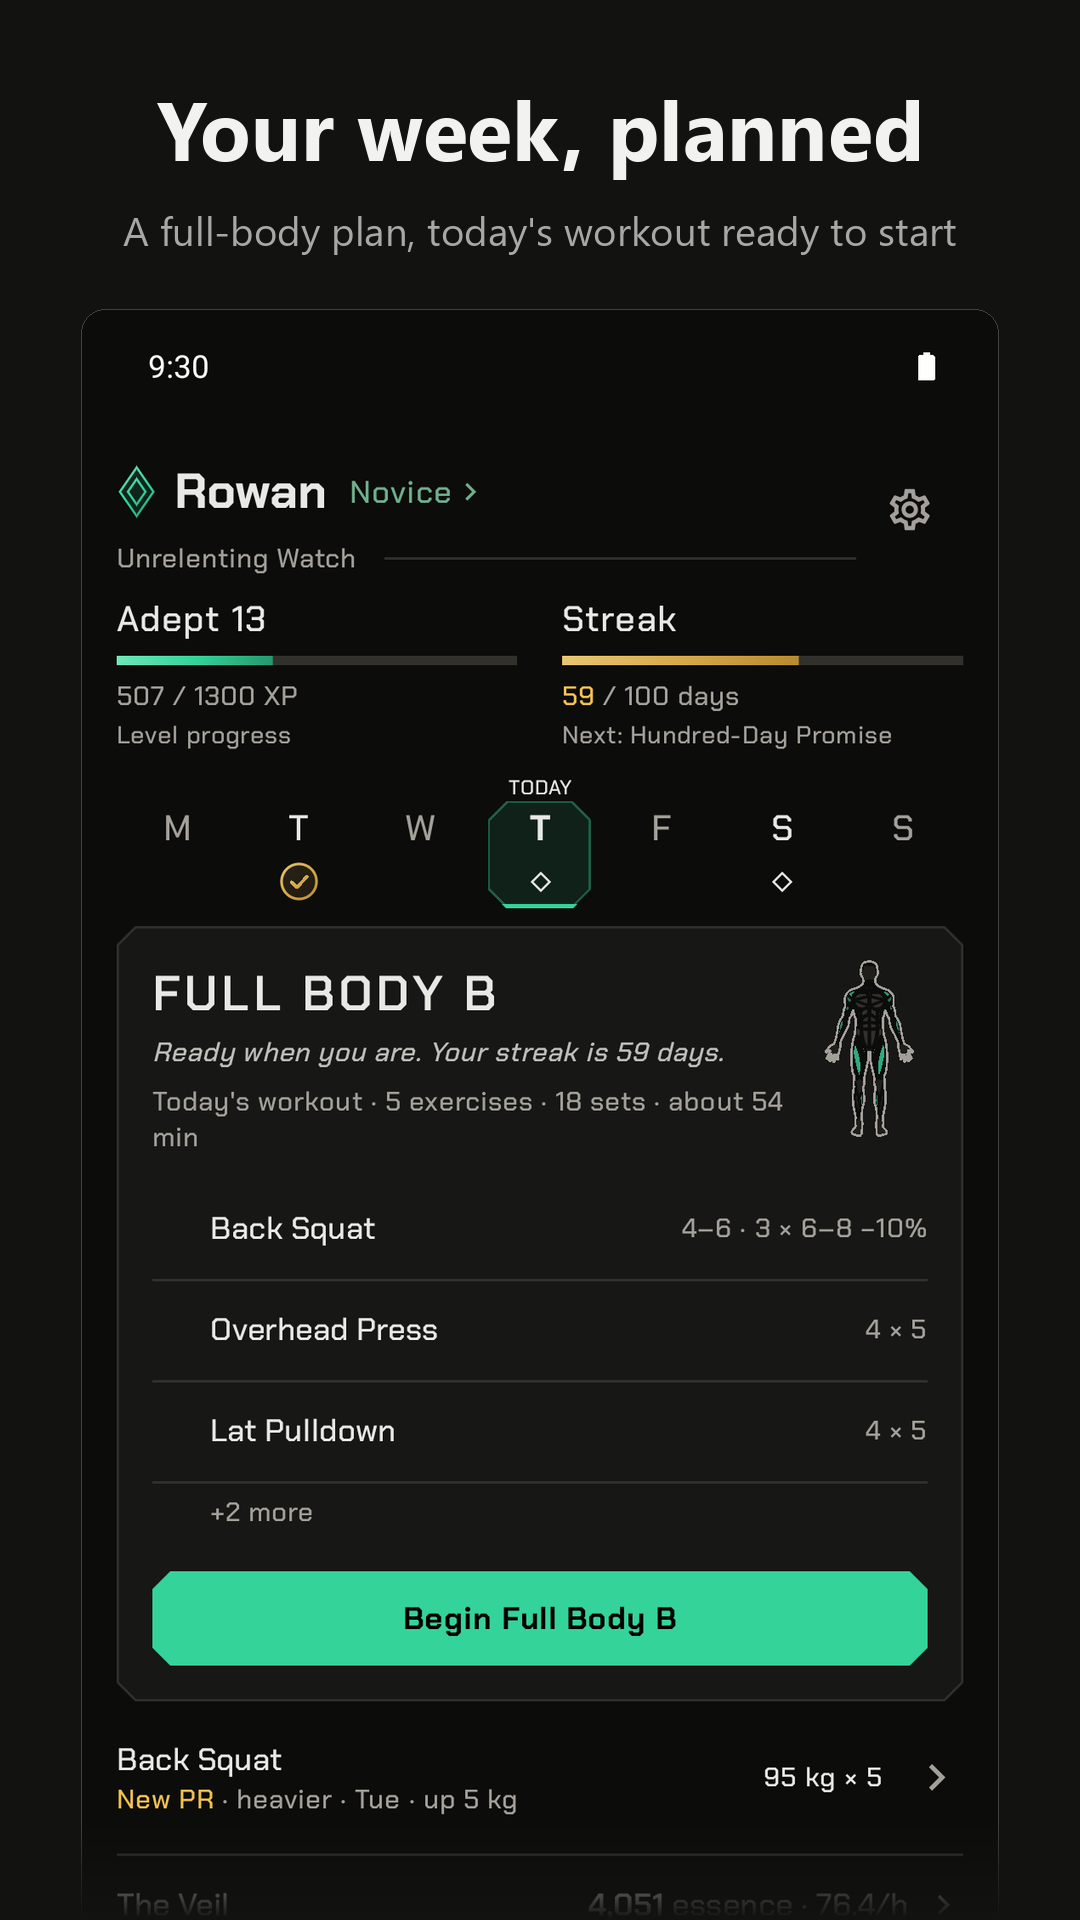
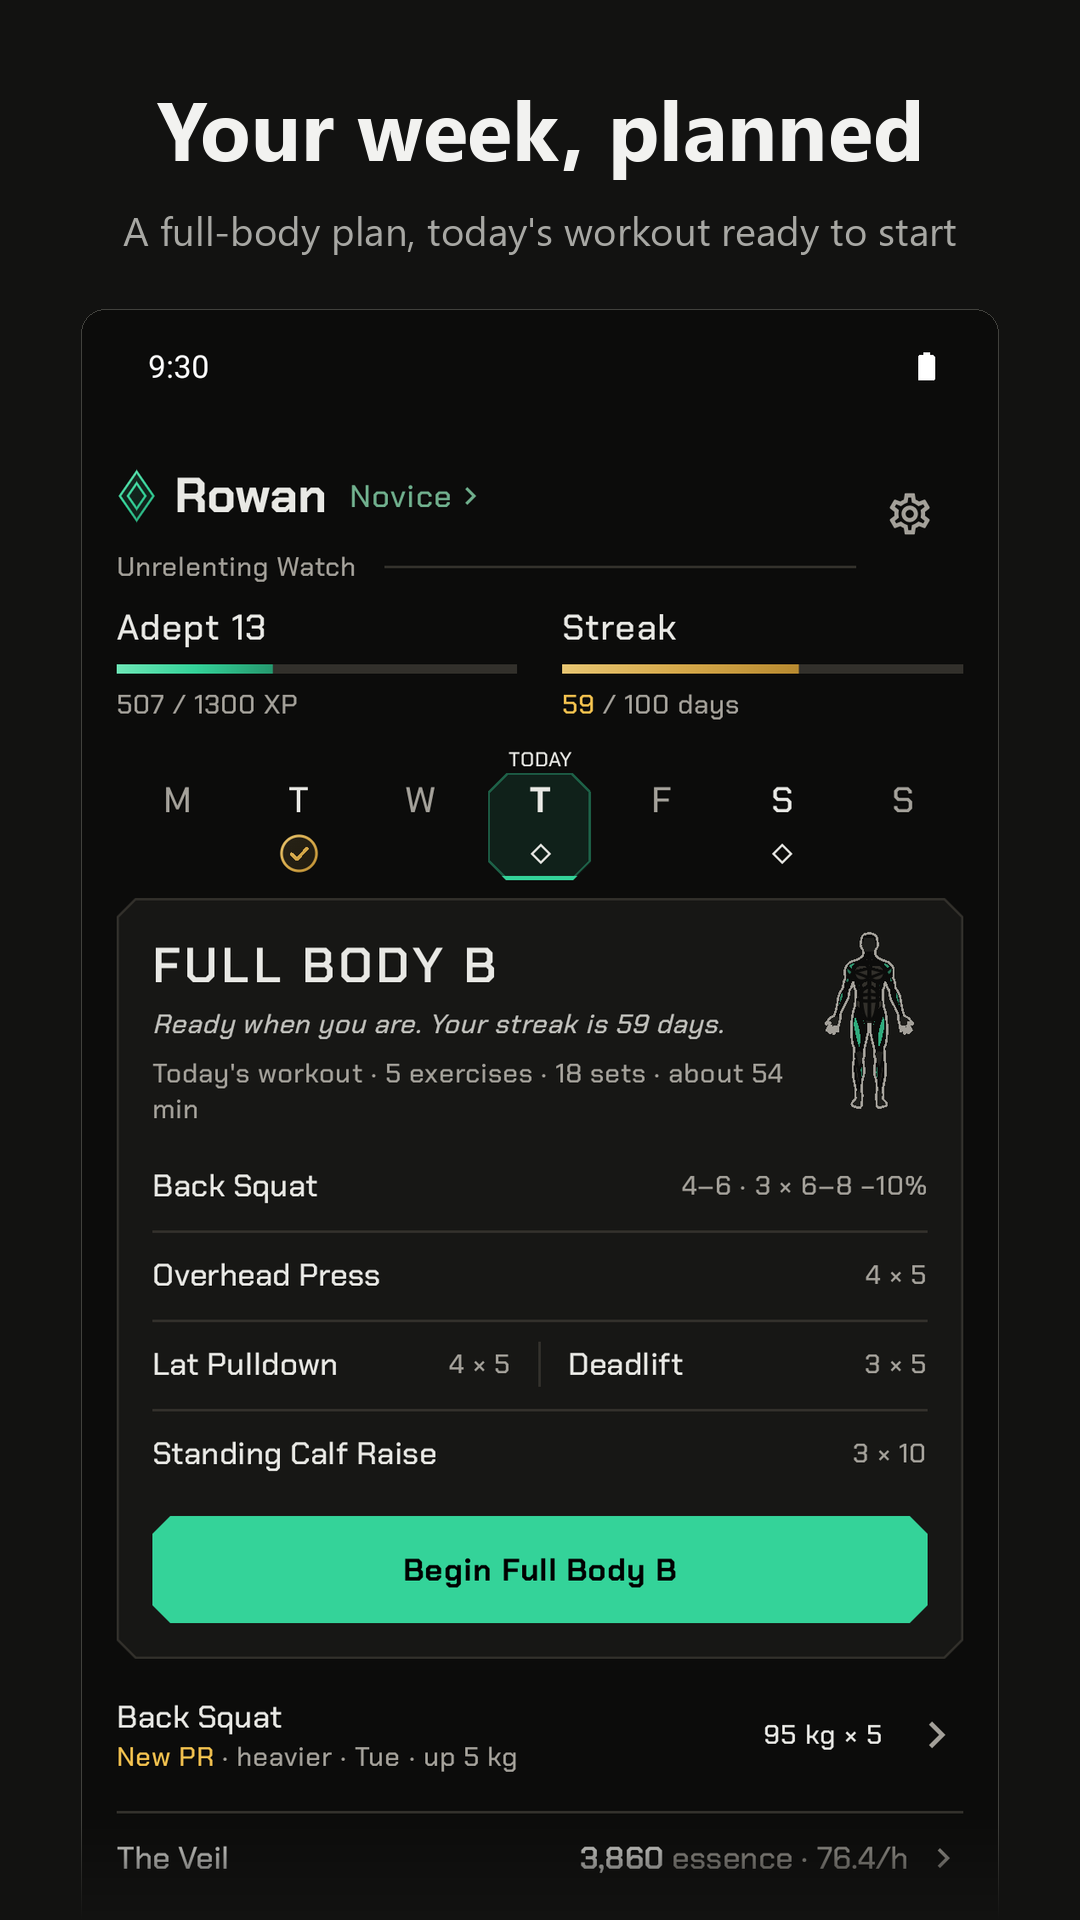
Add the 1.8 store screenshots
- Reshoot Today and the lift page for the new Today card and chart lines
- Add the weekly recap, home-screen widgets and light theme
- Show the three new images in the README gallery

diff --git a/README.md b/README.md
@@ -48,6 +48,11 @@ relics and the Veil) keeps its names either way. Every word is defined in
 <img src="fastlane/metadata/android/en-US/images/phoneScreenshots/07-plan-builder.png" width="24%" alt="The plan builder: a proposed weekly plan with loads" />
 <img src="fastlane/metadata/android/en-US/images/phoneScreenshots/08-veil.png" width="24%" alt="The Veil: essence, the strongest relic and the collection" />
 </p>
+<p align="center">
+<img src="fastlane/metadata/android/en-US/images/phoneScreenshots/09-weekly-recap.png" width="24%" alt="The weekly recap: workouts, sets, volume and time against last week, and new PRs" />
+<img src="fastlane/metadata/android/en-US/images/phoneScreenshots/10-widgets.png" width="24%" alt="The Today and Streak and week widgets on the home screen" />
+<img src="fastlane/metadata/android/en-US/images/phoneScreenshots/11-light.png" width="24%" alt="A lift page in the light theme, with the two-week average line" />
+</p>
 
 ## Features
 
